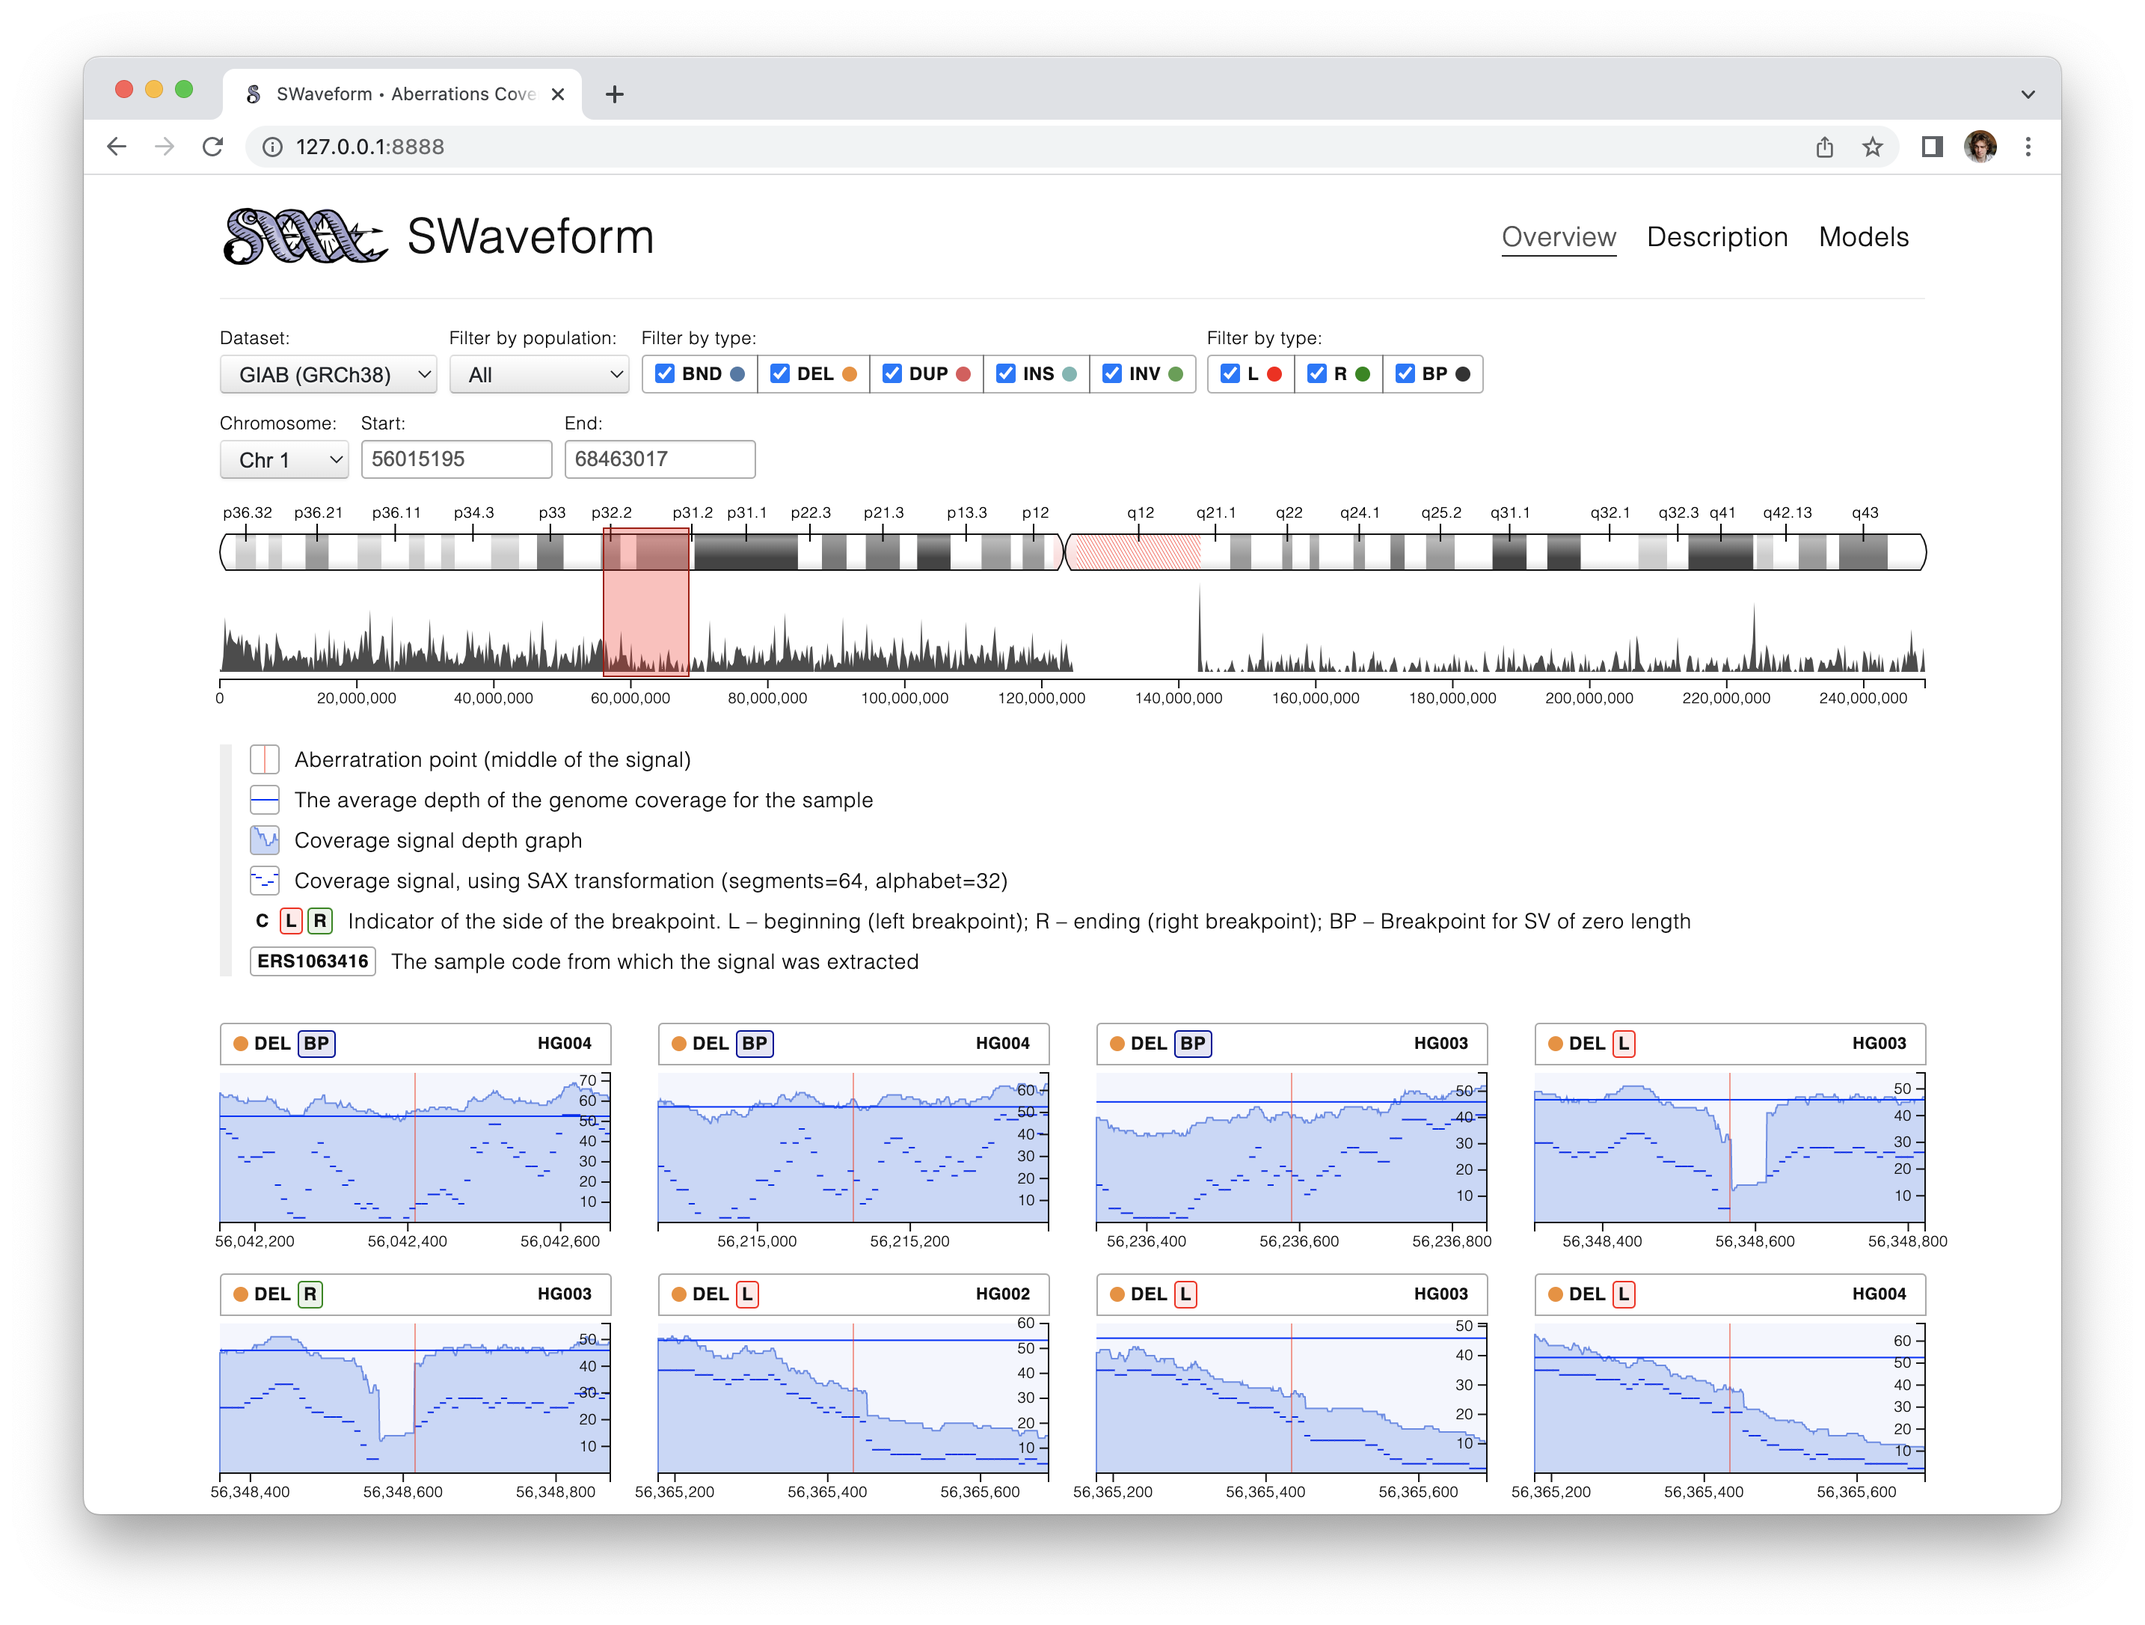
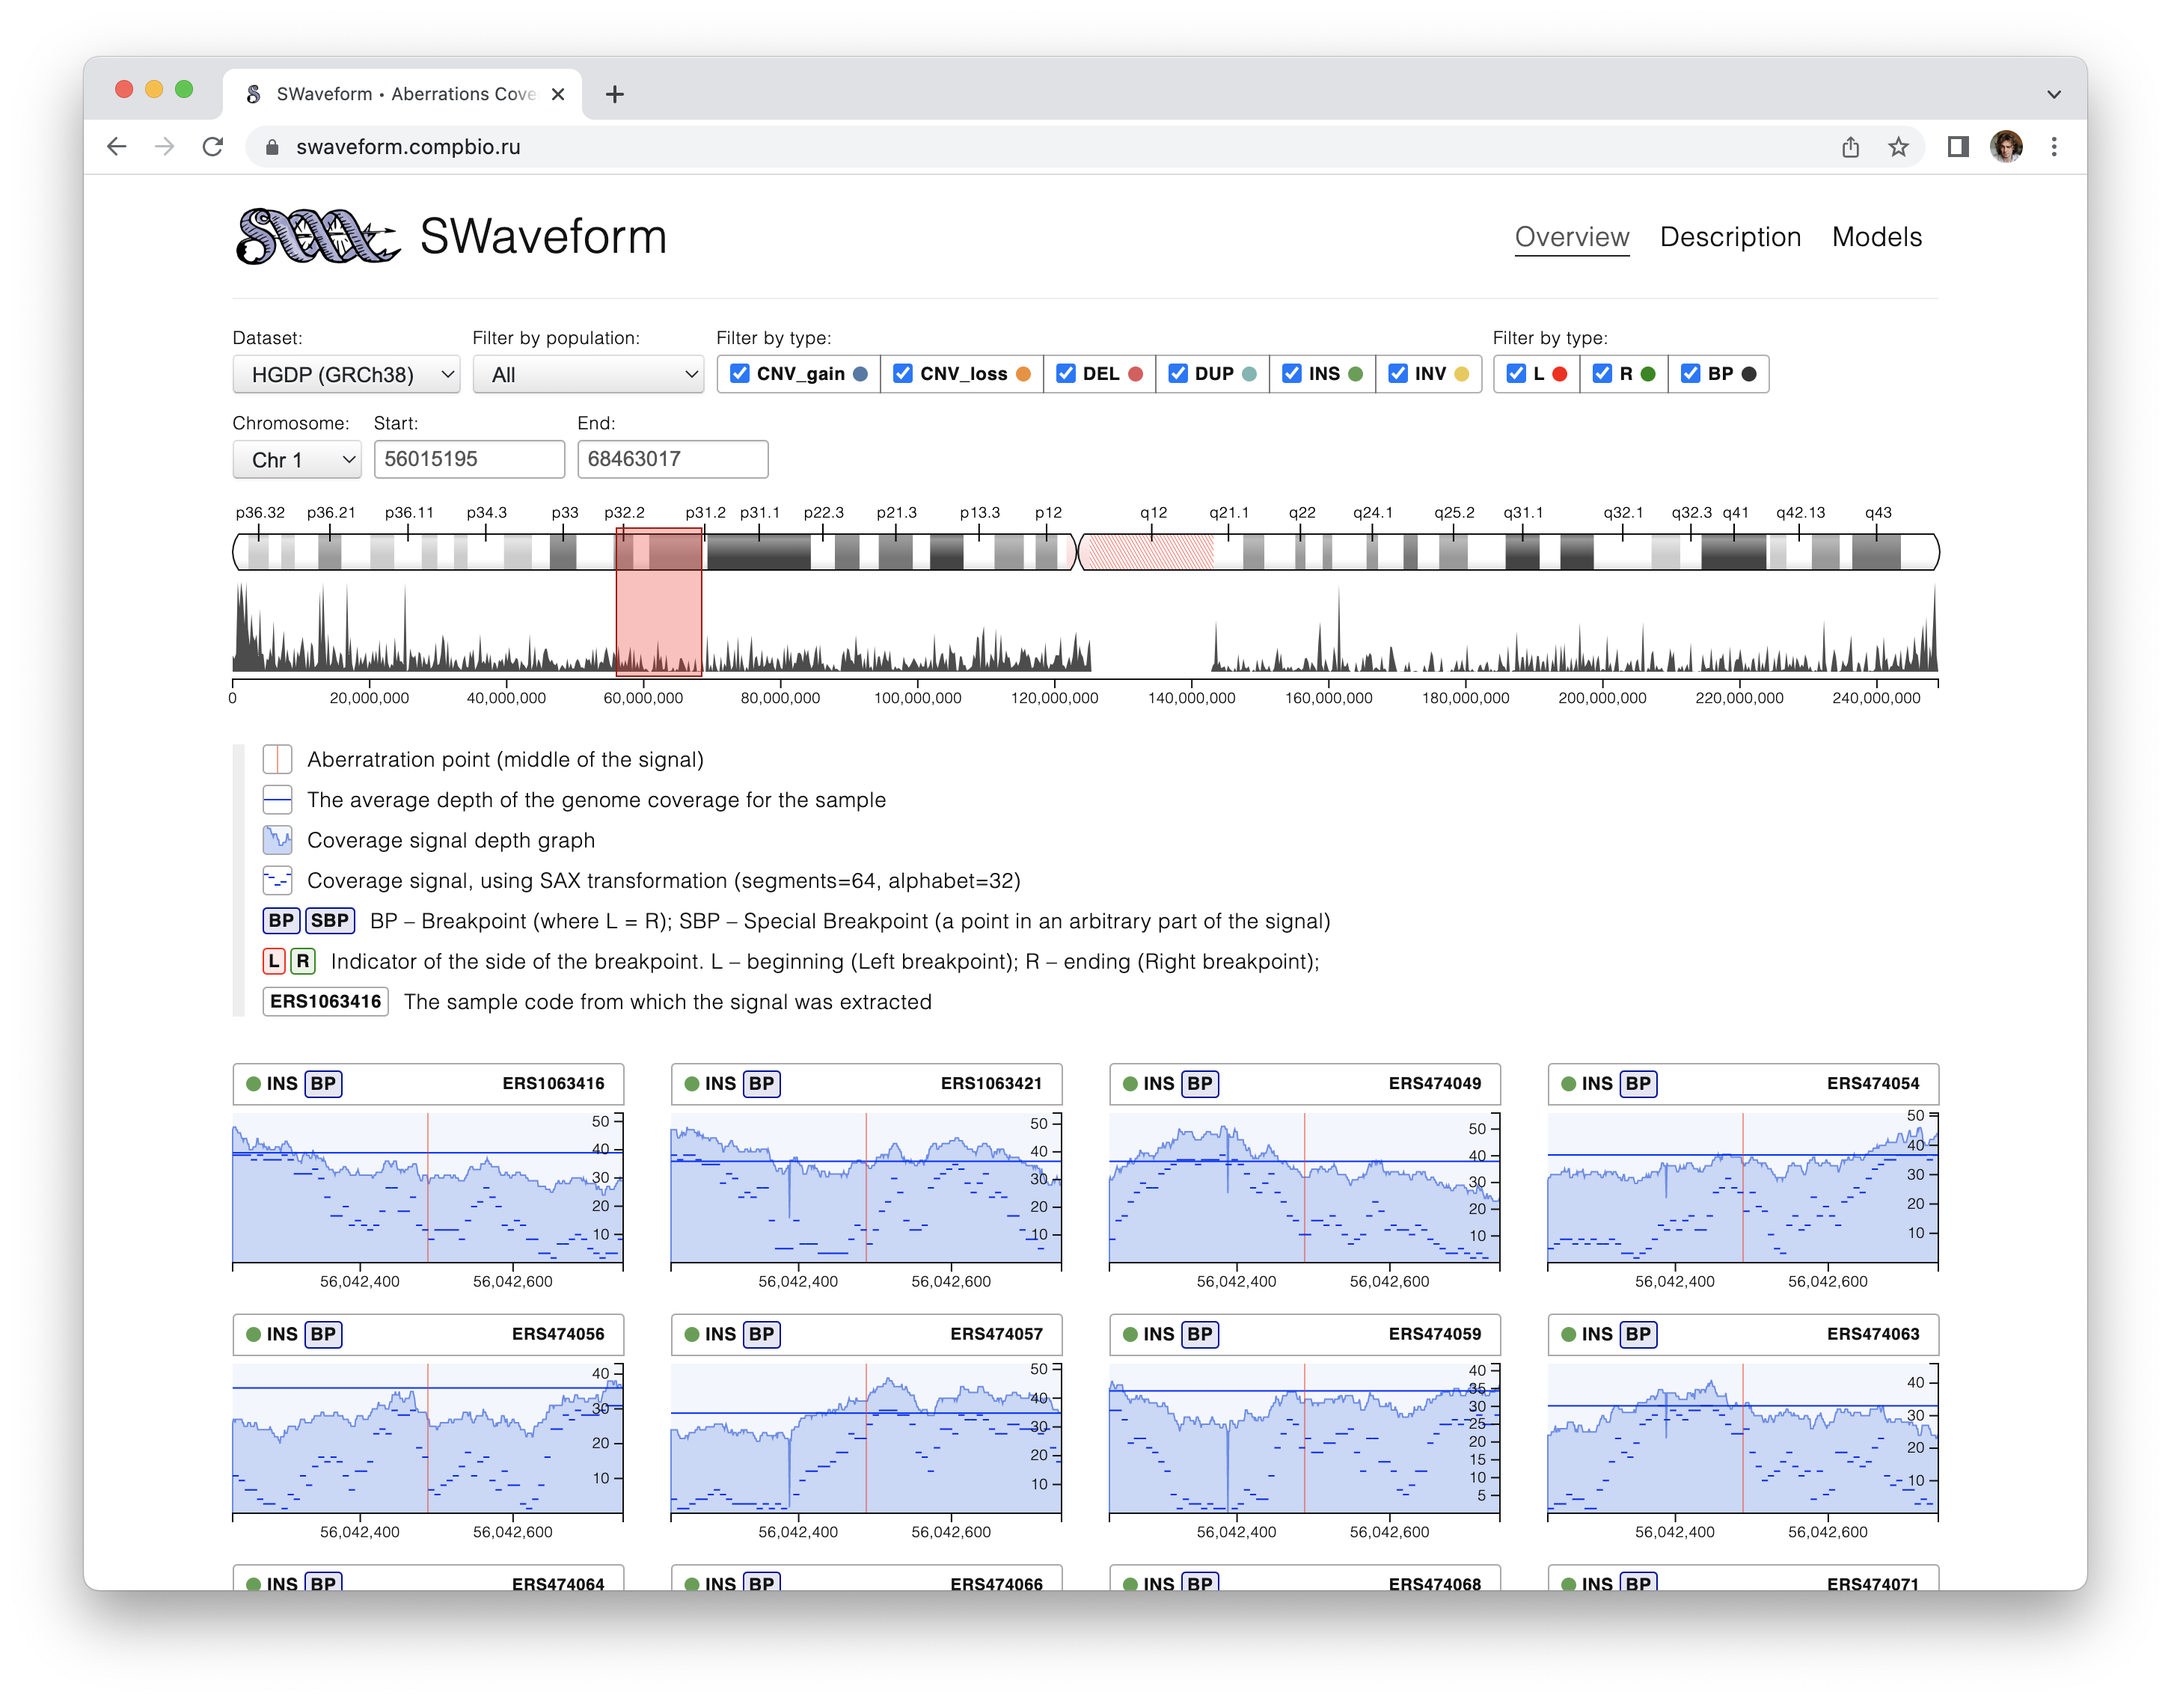
README+

diff --git a/build/index.html b/build/index.html
@@ -1,1 +1,1 @@
-<!doctype html><html lang="en"><head><base href="/"/><meta charset="utf-8"><meta http-equiv="X-UA-Compatible" content="IE=edge"><meta name="viewport" content="width=device-width,initial-scale=1"><title>SWaveform • Aberrations Coverage Repository</title><link rel="apple-touch-icon" sizes="120x120" href="/media/apple-touch-icon.png"><link rel="icon" type="image/png" sizes="32x32" href="/media/favicon-32x32.png"><link rel="icon" type="image/png" sizes="16x16" href="/media/favicon-16x16.png"><link rel="manifest" href="/media/site.webmanifest"><link rel="shortcut icon" href="/media/favicon.ico"><meta name="msapplication-TileColor" content="#ffffff"><meta name="msapplication-config" content="/media/browserconfig.xml"><meta name="theme-color" content="#ffffff"><base href="/"><script defer="defer" src="main-73503496731c5095a867.js"></script><link href="main-73503496731c5095a867.css" rel="stylesheet"></head><body class="body"><div id="app"></div></body></html>
+<!doctype html><html lang="en"><head><base href="/"/><meta charset="utf-8"><meta http-equiv="X-UA-Compatible" content="IE=edge"><meta name="viewport" content="width=device-width,initial-scale=1"><title>SWaveform • Aberrations Coverage Repository</title><link rel="apple-touch-icon" sizes="120x120" href="/media/apple-touch-icon.png"><link rel="icon" type="image/png" sizes="32x32" href="/media/favicon-32x32.png"><link rel="icon" type="image/png" sizes="16x16" href="/media/favicon-16x16.png"><link rel="manifest" href="/media/site.webmanifest"><link rel="shortcut icon" href="/media/favicon.ico"><meta name="msapplication-TileColor" content="#ffffff"><meta name="msapplication-config" content="/media/browserconfig.xml"><meta name="theme-color" content="#ffffff"><base href="/"><script defer="defer" src="main-8ece1f0b9239e1ba5372.js"></script><link href="main-8ece1f0b9239e1ba5372.css" rel="stylesheet"></head><body class="body"><div id="app"></div></body></html>

diff --git a/assets/js/pages/PlotPage.js b/assets/js/pages/PlotPage.js
@@ -261,21 +261,25 @@ class PlotPage extends React.Component {
                           {[...Array(5)].map((e, i) => <span className={'sax-ex'} key={i} />)}
                       </span> Coverage signal, using SAX transformation (segments=64, alphabet=32)
                   </div>
-                  
+
                   <div className={'item'}>
                       <span className={'a-box t'}>
                           <span className={'tag side-BP'}>BP</span>
                           <span className={'tag side-BP'}>SBP</span>
+                      </span>
+                      BP – Breakpoint (where L = R);
+                      SBP – Special Breakpoint (a point in an arbitrary part of the signal)
+                  </div>
+                  <div className={'item'}>
+                      <span className={'a-box t'}>
                           <span className={'tag side-L'}>L</span>
                           <span className={'tag side-R'}>R</span>
                       </span>
                       Indicator of the side of the breakpoint.
-                      L – beginning (left breakpoint);
-                      R – ending (right breakpoint);
-                      BP – Breakpoint (where L = R);
-                      SBP – Special Breakpoint (a point in an arbitrary part of the signal)
+                      L – beginning (Left breakpoint);
+                      R – ending (Right breakpoint);
                   </div>
-    
+
                   <div className={'item'}>
                       <span className={'a-box'}><span className={'tag'}>ERS1063416</span></span> The sample code from which the signal was extracted
                   </div>

diff --git a/README.md b/README.md
@@ -8,9 +8,9 @@ The repository contains a web interface for the signal database as well as a set
 The resource encompasses depth of coverage (DOC) signals from two large-scale sequencing initiatives delivered by the Human Genome Diversity Project (HGDP)  [Bergstrom, Almarri] and Genome in a Bottle consortia (GIAB)[]. As the latter provides variant calls and regions for use in benchmarking and validating variant calling pipelines and contains a smaller number of individuals, we envision it to be a demo collection to deploy the resource locally and to test the accompanying toolset.
 
 The demo collection of DOC profiles contains the following samples:
-* GIAB Ashkenazy; database and motifs (HG002). [_GIAB_HG002.zip](https://swaveform.compbio.ru/supplement/_GIAB_HG002.zip)
-* GIAB Ashkenazy; database only, no motifs (HG002). [_GIAB_HG002_nomodel.zip](https://swaveform.compbio.ru/supplement/_GIAB_HG002_nomodel.zip)
-* HGDP dataset (911 samples). [_HGDP.zip](https://swaveform.compbio.ru/supplement/_HGDP.zip)
+* GIAB Ashkenazy; database and motifs (HG002). [_GIAB_HG002.zip (40M)](https://swaveform.compbio.ru/supplement/_GIAB_HG002.zip)
+* GIAB Ashkenazy; database only, no motifs (HG002). [_GIAB_HG002_nomodel.zip (23M)](https://swaveform.compbio.ru/supplement/_GIAB_HG002_nomodel.zip)
+* HGDP dataset (911 samples). [_HGDP.zip (3.2G)](https://swaveform.compbio.ru/supplement/_HGDP.zip)
 * YRI, CHS and PUR family trio's children characterised in Chaisson et al (ref).
 
 Below are instructions on 1) how to deploy a demo version of the database and 2) how to create it yourself from open sourceshow to launch the web interface with our signal collections.
@@ -27,8 +27,8 @@ pip3 install flask tslearn gevent
 
 1.2 Download the precompiled web-interface
 ```bash
-wget https://swaveform.compbio.ru/supplement/swaveform-14-Oct-2022.zip
-unzip swaveform-14-Oct-2022.zip
+wget https://swaveform.compbio.ru/supplement/swaveform-02-Nov-2022.zip
+unzip swaveform-02-Nov-2022.zip
 ```
 
 1.3 Download signals and motifs
@@ -48,7 +48,7 @@ You're done. Now you can open your browser at [http://127.0.0.1:8888/](http://12
 
 Detailed instructions for using the web server startup script:
 
-```bash
+```text
 python3 server.py \
   db:[DB path name] \
   port:[server port, default: 9915] \
@@ -132,14 +132,23 @@ python3 ./tools/Clusters_ADAKMS_align.py \
 Example for search for motifs of all types for the GIAB_HG002-database:
 
 ```bash
-date
 python3 ./tools/Clusters_ADAKMS_bootstrap.py db:_GIAB_HG002_nomodel repeats:10 dataset:600 type:DEL side:L name:GIAB
 python3 ./tools/Clusters_ADAKMS_align.py db:_GIAB_HG002_nomodel prefix:"GIAB_DEL_L"
+# Time:   10 min. (607 sec.)                                                                                                                                      
+# Memory: 168MB                                                                                                                                                   
+# Result: _GIAB_HG002_nomodel/adakms/GIAB_DEL_L_s64-24_w32_d600_r10_s1337.json  
+
 python3 ./tools/Clusters_ADAKMS_bootstrap.py db:_GIAB_HG002_nomodel repeats:10 dataset:600 type:DEL side:R name:GIAB
 python3 ./tools/Clusters_ADAKMS_align.py db:_GIAB_HG002_nomodel prefix:"GIAB_DEL_R"
+# Time:   9 min. (591 sec.)                                                                                                                                       
+# Memory: 169MB                                                                                                                                                   
+# Result: _GIAB_HG002_nomodel/adakms/GIAB_DEL_R_s64-24_w32_d600_r10_s1337.json   
+
 python3 ./tools/Clusters_ADAKMS_bootstrap.py db:_GIAB_HG002_nomodel repeats:10 dataset:600 type:INS side:BP name:GIAB
 python3 ./tools/Clusters_ADAKMS_align.py db:_GIAB_HG002_nomodel prefix:"GIAB_INS_BP"
-date
+# Time:   18 min. (1095 sec.)
+# Memory: 344MB
+# Result: _GIAB_HG002_nomodel/adakms/GIAB_INS_BP_s64-24_w32_d600_r10_s1337.json
 ```
 
 Memory and speed calculations are measured for running in a single thread on a device with the following specifications:
@@ -157,9 +166,6 @@ Model name:          Intel(R) Xeon(R) CPU E5-2640 v3 @ 2.60GHz
 ### 2.2 Building your own database for your sequencing project
 
 !Note: Creating your own collection of signals requires a lot of disk space to store bam files. Each bam file can be up to 300gb
-
-Здесь уточнить, сколько именно потребуется для GIAB HG002
-++ Переписать примеры под конкретные файлы bam vcf
 
 > Hardware requirements: 2GB disk space, 1GB RAM  
 > Enviroment: Python >= 3.8, Python libraries (PyVCF3)
@@ -194,10 +200,11 @@ done
 
 2.2.2 The .meta file
 
-The .meta file is a table which, contains .VCF to .BCOV file relationships i.e. indicates which sample corresponds to which DOC signal. Columns: `sample_accession sample population sex meancov`  
-sample_accession — sample name in vcf file  
-sample is the name of the .bcov coverage data directory  
-population sex meancov — fields for the database
+The .meta file is a table which, contains .VCF to .BCOV file relationships i.e. indicates which sample corresponds to which DOC signal.  
+Columns: `sample_accession` `sample` `population` `sex` `meancov`  
+`sample_accession` — sample name in vcf file  
+`sample` is the name of the .bcov coverage data directory  
+`population` `sex` `meancov` — fields for the database
 
 Example:
 
@@ -287,4 +294,3 @@ yarn build && yarn pub
 ```
 
 The interface ready for publishing will be compiled into an archive like this: `swaveform-$(date +%d-%b-%Y).zip`
-
